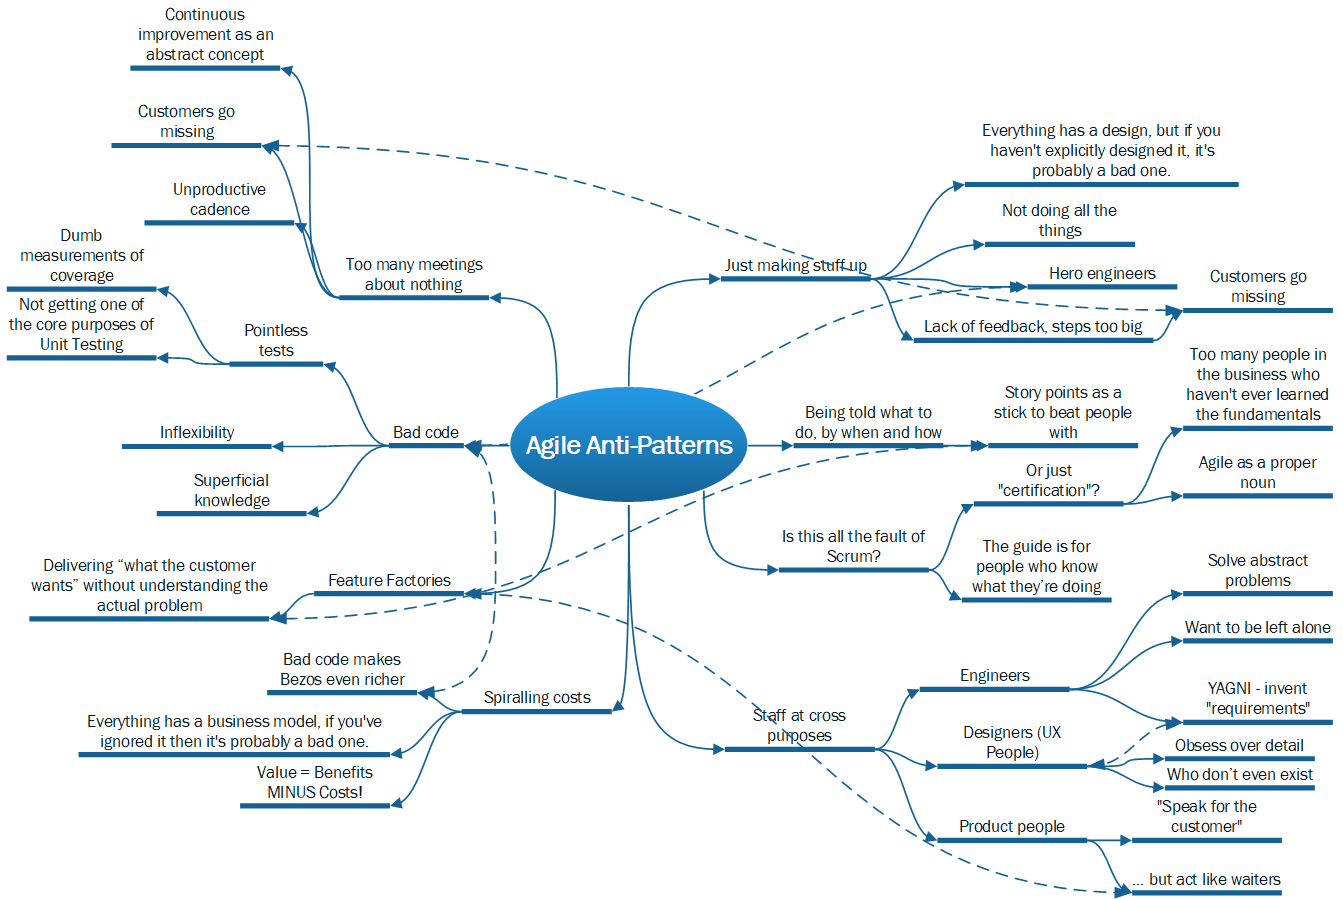
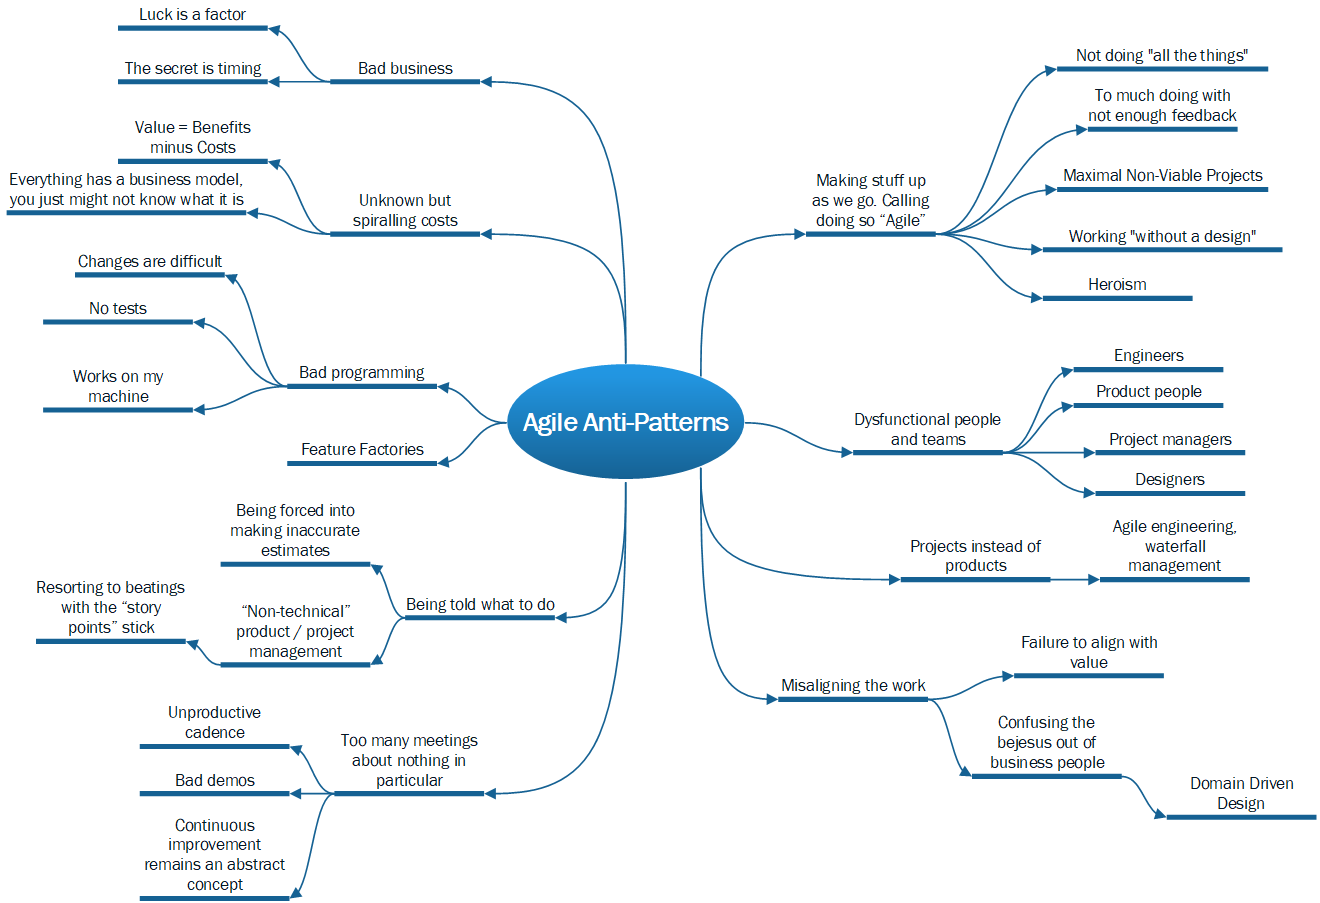
Updates the anti-patterns map.

diff --git a/src/TrovoWebsite/TrovoWebsite/Content/Agile_AntiPatterns.md b/src/TrovoWebsite/TrovoWebsite/Content/Agile_AntiPatterns.md
@@ -160,6 +160,19 @@ So why pretend projects make sense? It all comes down to a need to *feel* in com
 
 It's one of the weirdest, most counter-intuitive ironies of the Digital Realm that to gain control, you pretty much have to give it up. Who knew?
 
+### Agile engineering with waterfall management
+
+Did I mention having to do *all the things*? [I believe I did](Agile_WhatsThePoint.md). That includes strategising, and getting tactical, in small-a-agile ways. This is what the [next article](Agile_Value.md) is about, and there's a growing body of literature / help / advice about it. There's a lot more about business modelling in that one, too, because *value* is such a key concept to small-a-agility.
+
+Instead of choosing agility, however, a lot of organisations can't let go of the habit of strategising in Real World ways: heavyweight up-front plans and business cases, tortuous roadmaps. The highest-paid people in the building sitting in smoke-filled back rooms, inventing plausible-sounding solutions to problems that aren't even remotely understood.
+
+Quite often these folks believe that what they're doing is "Agile" because "we'll realise some value on the way", but they:
+
+* Don't understand that small-a-agility means "realise as much value as possible *all the time*".
+* Don't even estimate what that value might be in the first place. They just wing it.
+
+Estimation, in particular, seems to be an "engineering only" activity: programmers are on the hook for "delivering on time" according to crazy estimates, but when they eventually do (*very* late), and nobody actually wants / uses the thing they've delivered, that's rarely the fault of the business people that asked for it in the first place.
+
 ## Misaligning the work
 
 One of the biggest barriers to productivity is when teams block each other, or even worse, work at cross purposes, both working on the same (usually ill-defined) problem in their own little silos, blissfully unaware what the others are up to. Mad though this sounds, it happens *all the time* in the Digital Realm, where (of course), you can't actually *see* what other people are up to without actively looking for it, because it doesn't exist in any real, physical sense.
@@ -314,7 +327,7 @@ To really be able to get to the bottom of these things, you have to be *good*, a
 
 If you're at the top of the software engineering tree, working at enterprise scale with medium sized / lots of data (anything above ten million records a day, say) you *really* need to understand the languages you're working with. So, for example, if you're a C# engineer, and you want to make sure you don't cost your employer a fortune in compute costs, you really do need to learn how to recite [C# In Depth](https://www.manning.com/books/c-sharp-in-depth-fourth-edition) by Jon Skeet, forwards and backwards. Not enough people can do this, but too many people get paid *as if they can*.
 
-See also [Learning Python](https://www.manning.com/books/c-sharp-in-depth-fourth-edition) by Mark Lutz. Yes it's over 1000 pages long, but if you're a Data Scientist, it's your damn job to know this stuff, so get it read. Don't just jump straight into Pandas without an understanding of the language first - though also, don't just jump into Pandas without reading something like [Wes McKinney's book about that](https://wesmckinney.com/book/), either. Python in particular suffers really badly from people muddling-through, because that's "Pythonic" - it's supposed to be easy to pick up. But if you're only at the "well it *looks like it's working*" level, your lack of fundamental understanding can get *very expensive*. And some of it is pretty complicated, too - for instance, you ought to brush up on anything you learned about the mathematics of matrices at school before you get too deeply into NumPy.
+See also [Learning Python](https://www.manning.com/books/c-sharp-in-depth-fourth-edition) by Mark Lutz. Yes it's over 1000 pages long, but if you're a Data Scientist, it's your damn job to know this stuff, so get it read. Don't just jump straight into Pandas without an understanding of the language first - though also, don't just jump into Pandas without reading something like [Wes McKinney's book about that](https://wesmckinney.com/book/), either. Python in particular suffers really badly from people muddling-through, because that's "Pythonic" - it's supposed to be easy to pick up. But if you're only at the "well it *looks like it's working*" level, your lack of fundamental understanding can get *very expensive*. And some of it is pretty complicated, too - for instance, you ought to brush up on anything you learned at school about matrix mathematics before you get too deeply into NumPy.
 
 Jeff Bezos loves engineers who build apps that look like they're working, but which contain fundamental, basic inefficiencies. That's because he charges real folding money for all the unnecessary compute resulting from people not having what my old boss calls "mechanical sympathy" with what the systems they're abusing *actually do*. So if you're pushing lamda code to AWS without even knowing how to load test it, hence you don't know how much data it's moving around and chewing through unnecessarily, and then Amazon have to dim the lights to run it, then it's partly *your fault* that we all had to sit through Katy Perry going to space (nearly).
 
@@ -328,28 +341,17 @@ This is, of course, a massive problem both for capital-A-Agile endeavours, and i
 
 ### Value = Benefits MINUS Costs
 
-Just like everything has a design, ditto with business models. You may not have thought about the costs and benefits of your endeavour explicitly, instead chosing to launch straight into coding and design, and make stuff up as you go.  But guess what? Your project / product is still going to make or lose money, regardless. However, if you *haven't* put any thought and effort into modelling the changes you make, then there's a much greater chance that it won't make money, or if to does, that margins will be a lot slimmer than they could have been.
+Just like everything has a design, ditto with business models. You may not have thought about the costs and benefits of your endeavour explicitly, instead choosing to launch straight into coding and design, and make stuff up as you go.  But guess what? Your project / product is still going to make or lose money, regardless. However, if you *haven't* put any thought and effort into modelling the changes you make, then there's a much greater chance that it won't make money, or if it does, that margins will be a lot slimmer than they could have been.
 
-This can't ever just be a "Product thing", either. Yes, Product people ought to *own* the business model, but Engineers can't be let off the hook, for the costs if nothing else. As mentioned above, in a cloud-computing world, sub-optimal code eats into margins due to unnecessary operating costs. But cloud or no cloud, running even good software costs money. Those that understand the technology best will have the best chance of working out how much.
+This can't ever just be a "Product thing", either. Yes, Product people ought to *own* the business model, but Engineers can't be let off the hook, for the costs if nothing else. As mentioned above, in a cloud-computing world, sub-optimal code eats into margins due to unnecessary operating costs. But cloud or no cloud, running software costs money (even good software). Those that understand the technology best will have the best chance of working out how much.
 
-Designers, too, have a responsibility here, as its their job to help ensure there's no unnecessary barriers to realising as much benefit as possible. You could be (digital) inches away from creating a lot more revenue, if only your user-base could fully understand how well your solution solves their problem, and it's the designers' job to remove all that friction.
-
-## Agile engineering with waterfall Product Management
-
-Did I mention having to do *all the things*? [I believe I did](Agile_WhatsThePoint.md). That includes strategising, and getting tactical, in small-a-agile ways. This is what the [next article](Agile_Value.md) is about, and there's a growing body of literature / help / advice about it. There's a lot more about business modelling in that one, too, because *value* is such a key concept to small-a-agility.
-
-Instead of choosing agility, however, a lot of organisations can't let go of the habit of strategising in Real World ways: heavyweight up-front plans and business cases, tortuous roadmaps. The highest-paid people in the building sitting in smoke-filled back rooms, inventing plausible-sounding solutions to problems that aren't even remotely understood.
-
-Quite often these folks believe that what they're doing is "Agile" because "we'll realise some value on the way", but they:
-
-* Don't understand that small-a-agility means "realise as much value as possible *all the time*".
-* Don't even estimate what that value might be in the first place. They just wing it.
-
-Estimation, in particular, seems to be an "engineering only" activity: programmers are on the hook for "delivering on time" according to crazy estimates, but when they eventually do (*very* late), and nobody actually wants / uses the thing they've delivered, that's rarely the fault of the business people that asked for it in the first place.
+Designers, too, have a responsibility here, as it's their job to help ensure there are no unnecessary barriers to realising as much benefit as possible. You could be (digital) inches away from creating a lot more revenue, if only your user-base could fully understand how well your solution solves their problem, and it's the designers' job to remove all that friction.
 
 ## Bad business
 
 Just like there aren't many genuinely good software engineers around, there aren't many good business people, either, who actually understand the science of building profitable companies in the Digital Realm. Obviously we can point at some very prominent success stories, but that's because *we only know about the successful ones*.
+
+### Luck is a factor: learn to play the percentages
 
 Luck is *always* a big part of success: hats-off to Eric Schmidt for [actually admitting it](https://www.cnbc.com/2018/12/14/google-billionaire-eric-schmidt-luck-is-a-big-part-of-success.html). Yes, all successful business people work very hard, but guess what? A much bigger number of unsuccessful ones do, too... Plus a large number of people having to do two or three jobs to feed their families, as well.
 
@@ -359,8 +361,12 @@ And on it all goes... When I look at, say, Mark Zuckerberg - with his nonsensica
 
 None of this screams "talent", does it? We've all had bad days at the office. But if I lost my employer $70 Billion (and counting), I'd at least expect HR to put me on a performance plan.
 
+### The secret of comedy is timing
+
 So in what way did "Zuck" and "Leon" and all the other oligarchs get lucky? Well as one of my main mentors often says: "...the secret of good comedy is *timing*". Facebook is a great example of his point - the core idea of Facebook isn't original: MySpace came before it, and here in the UK we had [Friends Reunited](https://wiki.archiveteam.org/index.php/Friends_Reunited). The thing that made Facebook stick was the invention of the ~~SmartPhone~~ [distraction rectangle](https://doctorow.medium.com/https-pluralistic-net-2024-08-17-hack-the-planet-how-about-a-nice-game-of-chess-a26c73418baf): nothing to do with Zuckerberg, but of all the social networks knocking about at the time, his one reacted quickest, Facebook became the first you could carry around in your pocket and [annoy people on the bus with](https://www.bbc.co.uk/news/articles/cly5g7v2qddo), and [world domination by nudging](https://www.behavioraleconomics.com/resources/mini-encyclopedia-of-be/nudge/) soon followed.
 
-Obviously I'm saying this as if it was a mere bagatelle to deliver a ubiquitous social network when of course there's some [seriously clever technology](https://www.usenix.org/system/files/conference/nsdi13/nsdi13-final170_update.pdf) involved, but with 8 Billion people in the world and counting, there's a lot of serious cleverness around, and all the drive and gumption behind making Facebook so big doesn't actually differentiate it. The difference was that their version of a social network landed at the exact time to make it massive - or at least massive enough to give them the cash to start buying the competition. And so it goes for all the others - Microsoft (obviously) and Apple both finding market fit for the [Xerox Parc Paperdigm](https://crm.org/articles/xerox-parc-and-the-origins-of-gui), which by all accounts they just walked in and copied. Paypal landing themselves at the point when banking and financial technology could just about cope with the Internet (hence Leon, Peter and a few other sociopaths). Google and Amazon are a *little* different in that they had to tough things out through the first DotCom crash, but timing was at play there, too - just because there was a gold-rush going on around them, it didn't mean there wasn't any gold at all - they managed to survive long enough to hoover their disproportionate shares of it up.
+Incidentally, Meta's reliance on SmartPhones, a technology dominated by Apple and Google, is clearly the motivation underpinning the obsession with VR headsets and augmented reality "glasses": Zuckerberg is looking for a MacGuffin that Meta can own. So the strategy isn't so dumb; but the execution is *awful*. Plus I'm saying this as if it was a mere bagatelle to deliver a ubiquitous social network when of course there's some [seriously clever technology](https://www.usenix.org/system/files/conference/nsdi13/nsdi13-final170_update.pdf) involved.
 
-So it all comes down to playing the odds - and the best we can hope for when building in the Digital Realm is to tilt them towards us a bit. The good news is that, if we truly understand what's meant by value, we can tilt them *quite a bit*. But they will still be stacked up against us, so we need to know, quickly, whether an idea is a good-un or a sick dog, and at least pull the plug before we lose, say, $70 Billion. The frictionless Digital Realm of infinite possibilities gives us a chance to do that, so that's what the [next essay](./Agile_Value.md) is about.
+With eight billion people in the world and counting, though, there's a lot of serious cleverness around, and all the drive and gumption behind making Facebook so big doesn't actually differentiate it. The difference was that their version of a social network landed at the exact time to make it massive - or at least massive enough to give them the cash to start buying the competition. And so it goes for all the others - Microsoft (obviously) and Apple both finding market fit for the [Xerox Parc Paperdigm](https://crm.org/articles/xerox-parc-and-the-origins-of-gui), which by all accounts they just walked in and copied. Paypal landing themselves at the point when banking and financial technology could just about cope with the Internet (hence Leon, Peter and a few other sociopaths). Google and Amazon are a *little* different in that they had to tough things out through the first DotCom crash, but timing was at play there, too - just because there was a gold-rush going on around them, it didn't mean there wasn't any gold at all - they managed to survive long enough to hoover their disproportionate shares of it up.
+
+So it all comes down to playing the odds - and the best we can hope for when building in the Digital Realm is to tilt them towards us a bit. The good news is that, if we truly understand what's meant by value, we can tilt them *quite a bit*. But they will still be stacked up against us, so we need to know, quickly, whether an idea is a good-un or a sick dog, and at least pull the plug before we lose, say, $70 Billion. The frictionless Digital Realm of infinite possibilities gives us a unique opportunity to do that, so that's what the [next essay](./Agile_Value.md) is about.

diff --git a/src/TrovoWebsite/TrovoWebsite/Content/Agile_WhatsThePoint.md b/src/TrovoWebsite/TrovoWebsite/Content/Agile_WhatsThePoint.md
@@ -190,7 +190,7 @@ Obviously there *is* more in this life than filthy lucre, but in a capitalist so
 
 With hindsight, all this research of mine *might* actually have been some sort of quest to find out what "value" *actually is*, because The Manifesto for Agile Software Development **sure as hell doesn't tell you**. Remember, all the signatories to The Manifesto were *software engineers*. Some of them (possibly only one of them - Jim Highsmith - who features prominently in the [third article](./Agile_Value.md)) seemed to realise that, in the Digital Realm, we can't rely upon business people to tell us what "value" is - they don't know and can't work it out without some help.
 
-Many of the other signatories often come across as 'doing the engineer thing' - farming out the responsibility for defining value to business people and trusting them to get it right. I'm afraid this is prime cake-and-eat-it: "... small-a-agility means you *don't get to tell us what to do!*... apart from when working out what to do gets difficult, in which case, please prioritise what the most valuable thing is for us and we'll do that. Though we reserve the right to moan like stink when it turns out you were wrong and nobody uses the thing we built, or loads of people do but the maintenance costs bankrupt the business...". Etc ad nauseum.
+Many of the other signatories often come across as 'doing the engineer thing' - farming out the responsibility for defining value to business people and trusting them to get it right. I'm afraid this is prime cake-and-eat-it: "... small-a-agility means you *don't get to tell us what to do!*... apart from when working out what to do gets difficult, in which case, please prioritise what the most valuable thing is for us and we'll do that. Though we reserve the right to moan like stink when it turns out you were wrong and nobody uses the thing we built, or loads of people do but the maintenance costs bankrupt the business...". Etc ad nauseam.
 
 I'm afraid Dave Thomas can come across as a prime example of this - see the part about "units of value" in his [second talk](https://youtu.be/bEMg9XXIcew?si=WMmJucZFqZma3xt0) - wtf is a "unit of value" exactly, if not an attempt to abstract the responsibility for finding value away from programmers?
 
